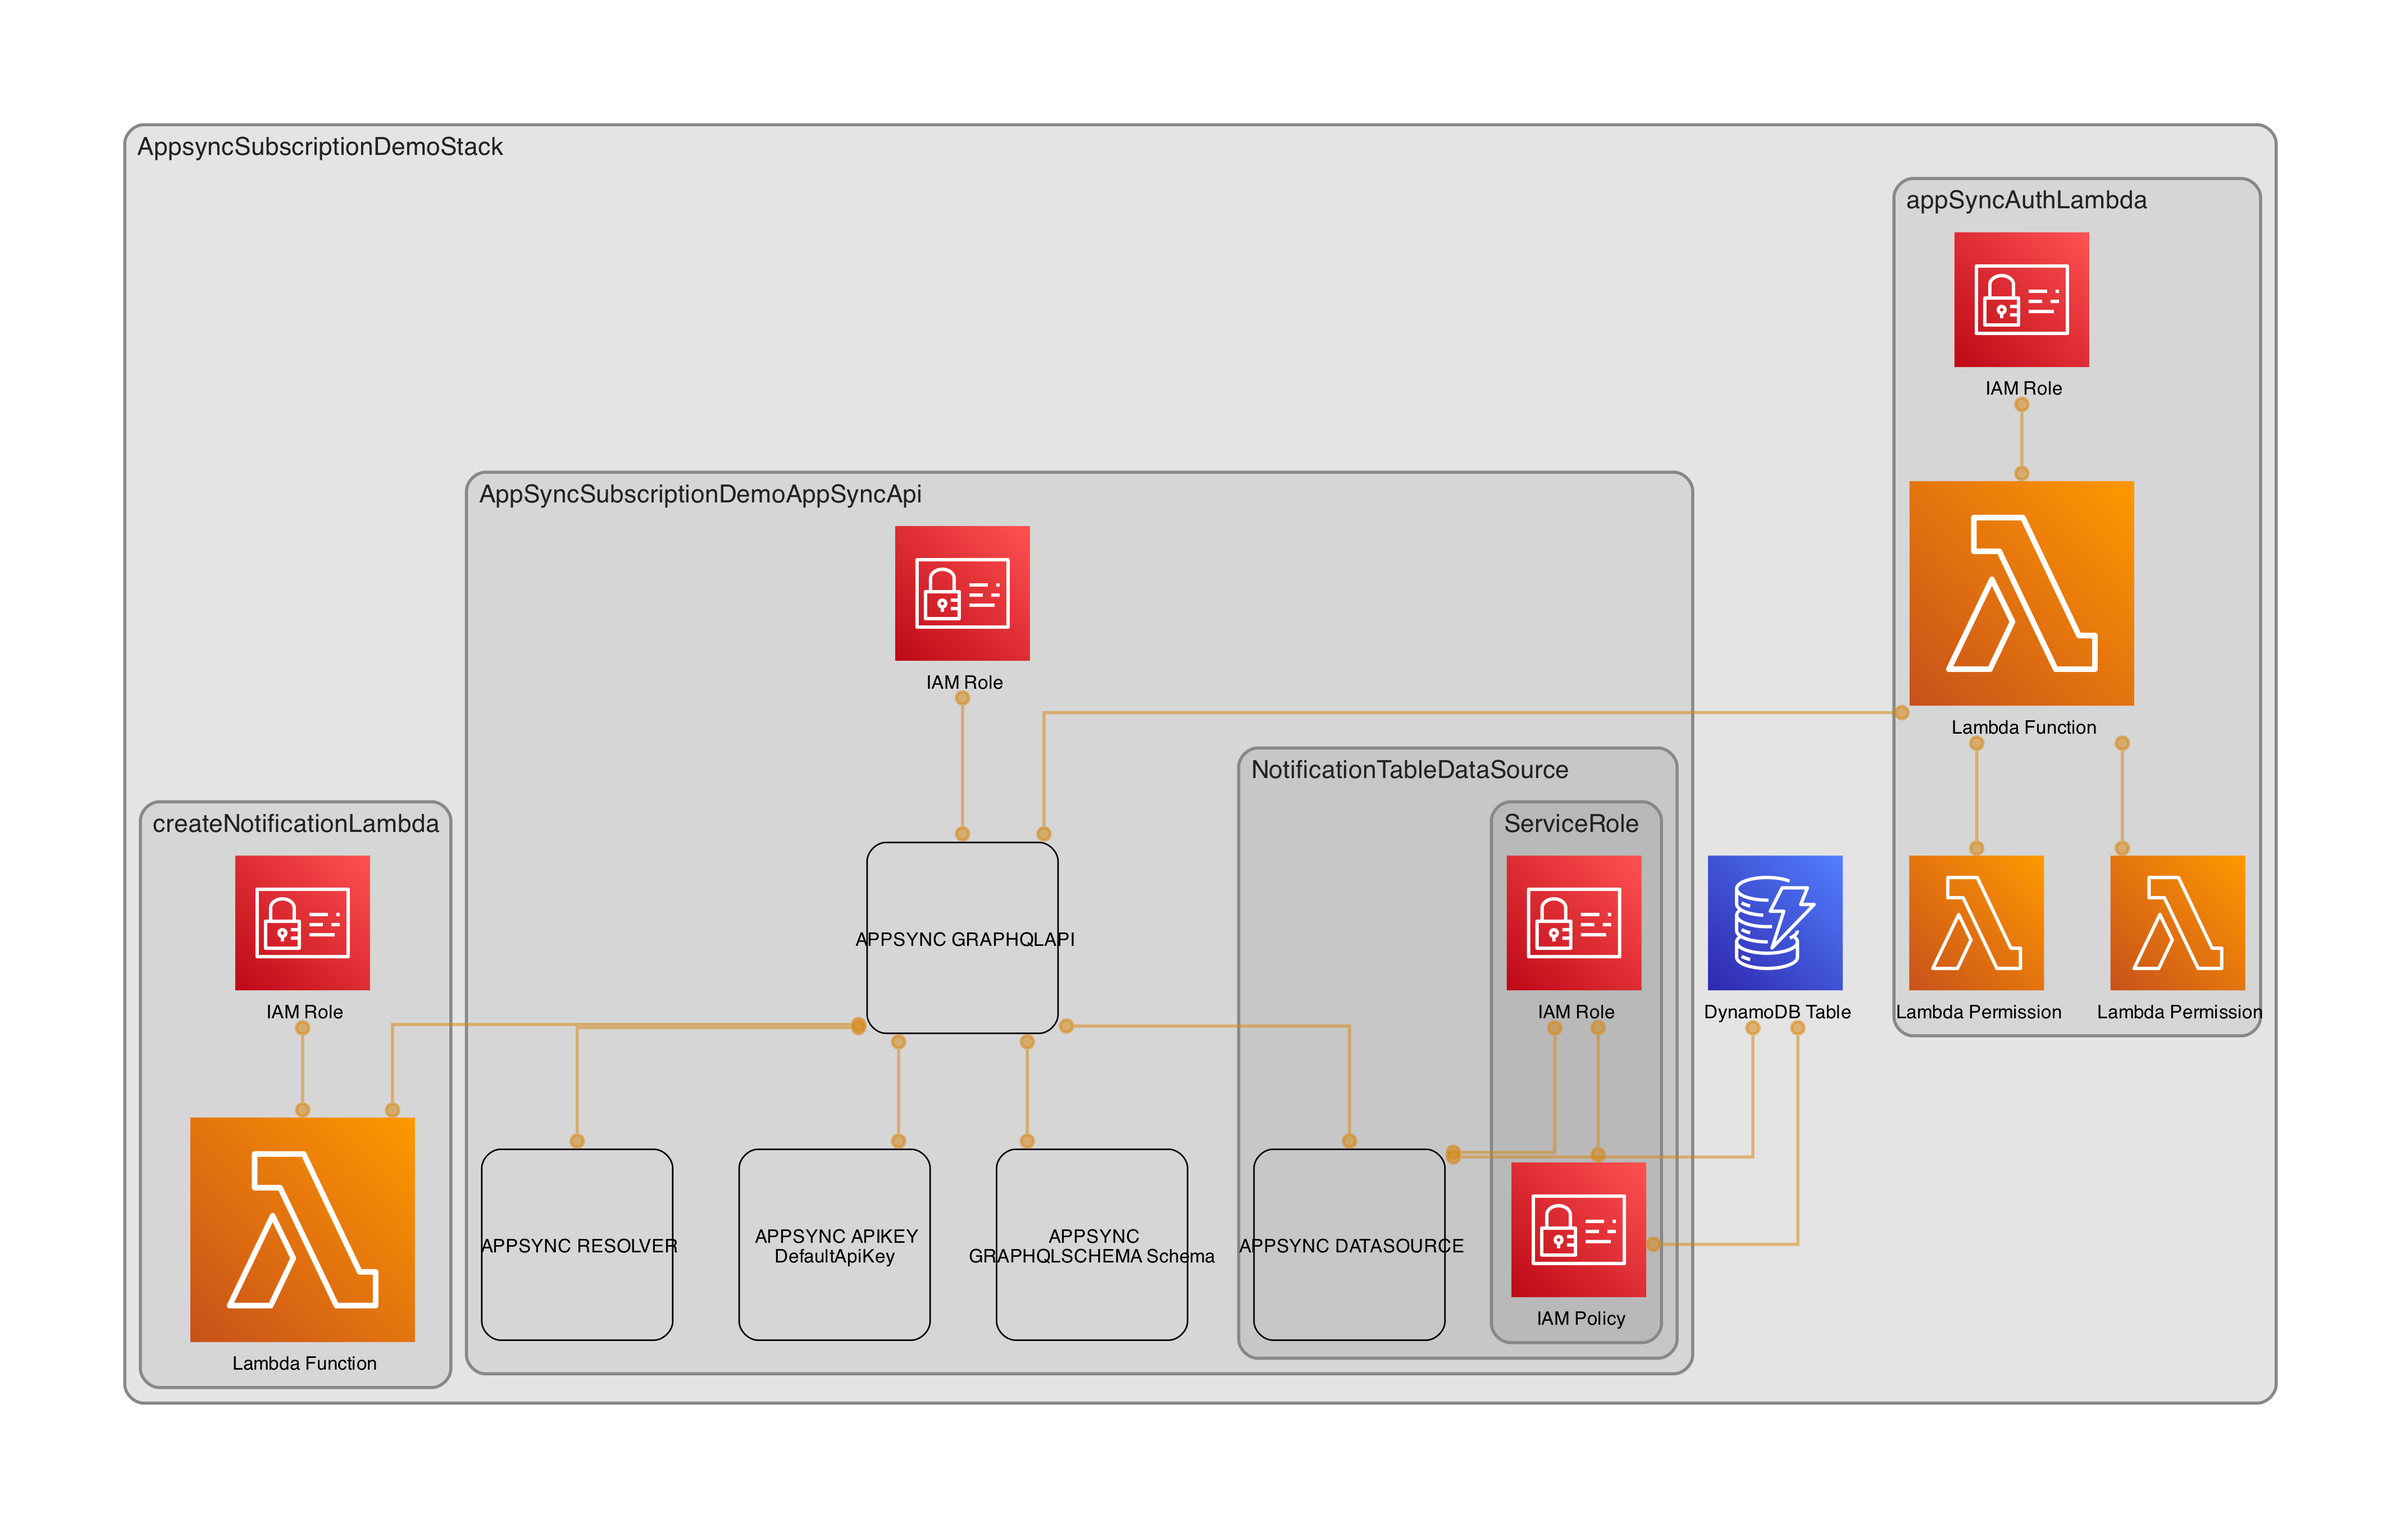
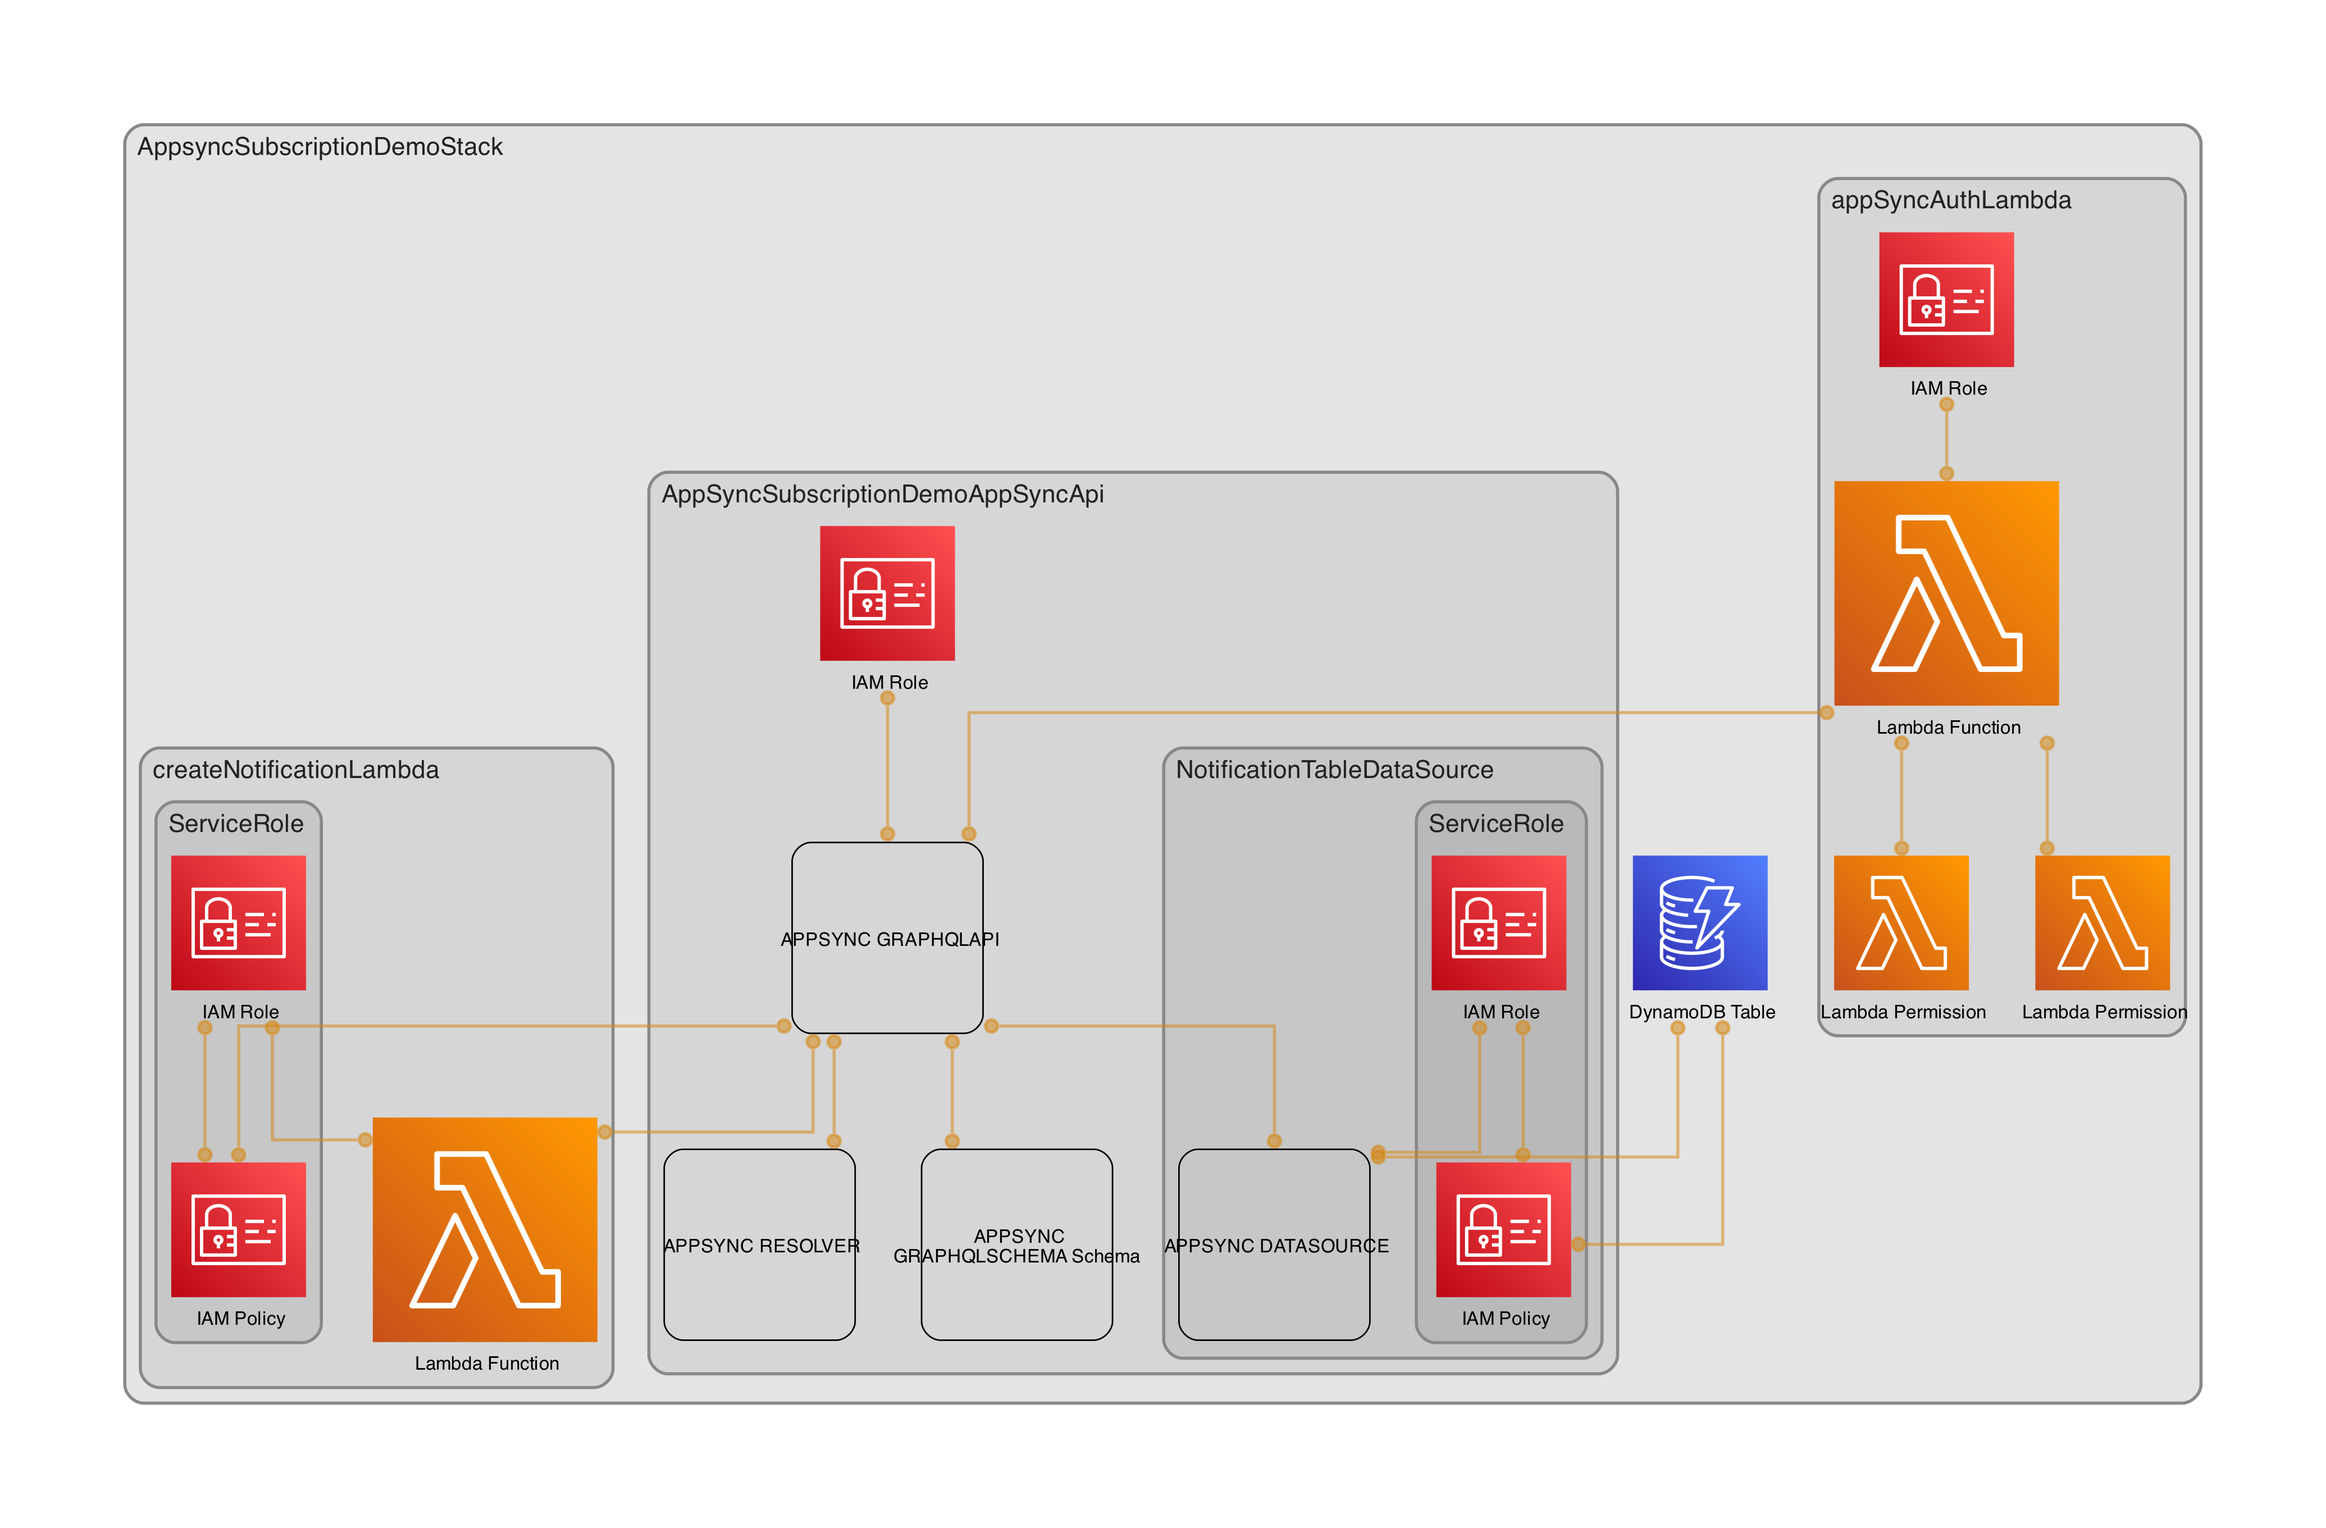
apiキー認証を削除

diff --git a/lib/appsync-subscription-demo-stack.ts b/lib/appsync-subscription-demo-stack.ts
@@ -58,9 +58,6 @@ export class AppsyncSubscriptionDemoStack extends cdk.Stack {
             {
               authorizationType: appsync.AuthorizationType.IAM,
             },
-            {
-              authorizationType: appsync.AuthorizationType.API_KEY,
-            },
           ],
         },
         logConfig: {

diff --git a/lambda/createNotification.ts b/lambda/createNotification.ts
@@ -5,7 +5,6 @@ import { HttpRequest } from "@aws-sdk/protocol-http";
 import { Sha256 } from "@aws-crypto/sha256-universal";
 import { z } from "zod";
 
-// contextはnotificationIdとcompnayIdのStringを持つので型を定義
 interface Params {
   notificationId: string;
   companyId: string;
